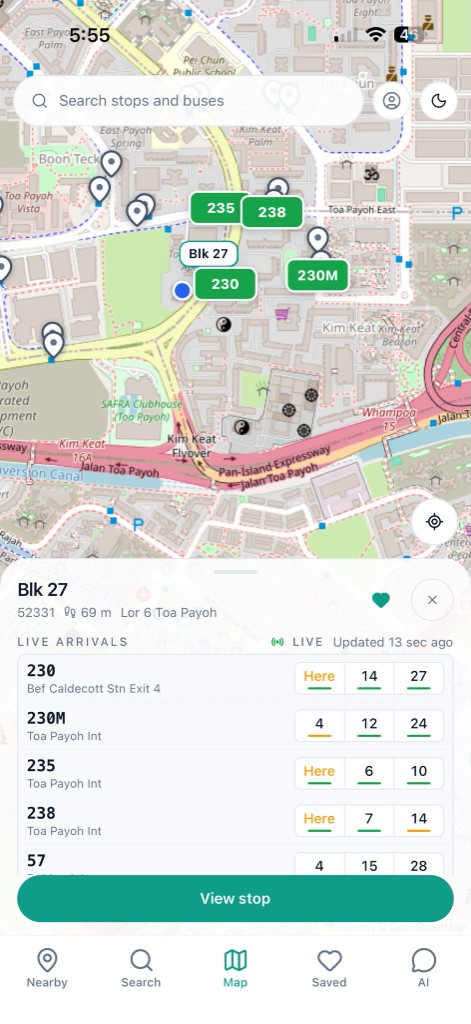
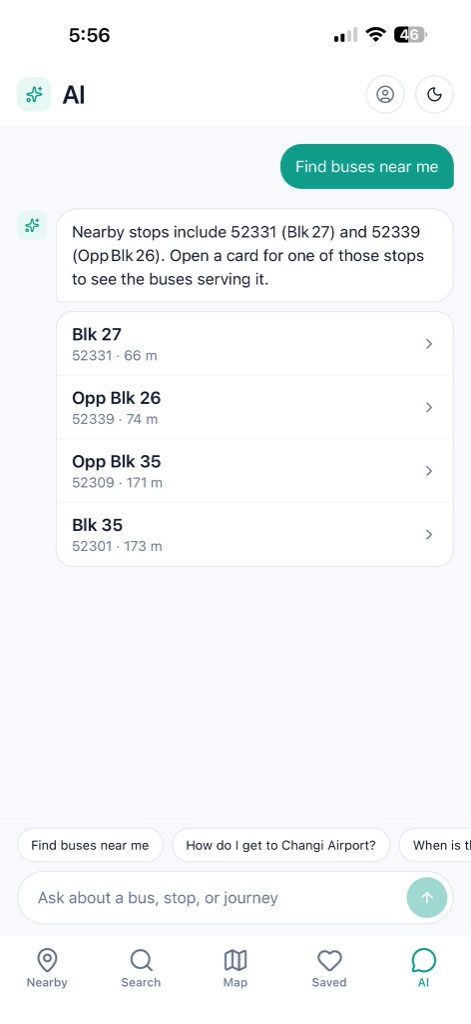
docs: feature Ask BusFlow in the README
The assistant is the part other Singapore bus apps leave out. Lead with it, show the nearby-stops chat, and record that replies come from API tools.

diff --git a/README.md b/README.md
@@ -1,8 +1,8 @@
 # SG BusFlow
 
-**Real-time Singapore bus arrivals, nearby stops, and journeys — on a Next.js site and an Expo app, from one FastAPI service.**
+**Real-time Singapore bus arrivals, nearby stops, journeys, and an in-app assistant — on a Next.js site and an Expo app, from one FastAPI service.**
 
-SG BusFlow shows stops around you, the next buses, and a walk-plus-bus trip. Minutes come from [LTA DataMall](https://datamall.lta.gov.sg/). The website and the phone never call LTA themselves. There is no account: saved stops stay on the device. This repository is the **portfolio / example** source. It runs with Docker on a development machine. It is not deployed.
+SG BusFlow shows stops around you, the next buses, and a walk-plus-bus trip. **Ask BusFlow** is the part other Singapore bus apps leave out: you ask in plain language, and it looks up the same live stops, arrivals, and journeys, then answers with a short reply and tappable cards. Minutes come from [LTA DataMall](https://datamall.lta.gov.sg/). The website, the phone, and the model never invent a time. There is no account: saved stops stay on the device. This repository is the **portfolio / example** source. It runs with Docker on a development machine. It is not deployed.
 
 [![Next.js](https://img.shields.io/badge/Next.js-15-000000?logo=nextdotjs&logoColor=white)](https://nextjs.org/)
 [![TypeScript](https://img.shields.io/badge/TypeScript-5-3178C6?logo=typescript&logoColor=white)](https://www.typescriptlang.org/)
@@ -15,7 +15,7 @@ SG BusFlow shows stops around you, the next buses, and a walk-plus-bus trip. Min
 
 ## Product overview
 
-A bus app that invents an arrival time is worse than one that says the feed is late. SG BusFlow keeps LTA behind one worker, stores the network in PostgreSQL with PostGIS, and keeps the latest minutes in Redis. Web and Expo only read that API.
+A bus app that invents an arrival time is worse than one that says the feed is late. SG BusFlow keeps LTA behind one worker, stores the network in PostgreSQL with PostGIS, and keeps the latest minutes in Redis. Web and Expo only read that API. Ask BusFlow is a tab on both clients. It calls tools on that same API, then explains the result. It does not plan the route itself and it does not offer MRT.
 
 If GPS is denied, the app says location is off and uses a Boon Lay pin so the screens are not blank. Light theme is the default. Dark theme is a switch in the header.
 
@@ -23,6 +23,7 @@ If GPS is denied, the app says location is off and uses a Boon Lay pin so the sc
 
 | Capability | What it provides |
 | --- | --- |
+| **Ask BusFlow** | Chat for "buses near me", "how do I get to Changi Airport?", or "when is the next 230?". Tools search stops, read cached arrivals, and run the journey planner. The reply is one or two sentences. Cards open the stop or the trip. |
 | **Nearby stops** | Stops within walking distance, with the next buses on the first stop. |
 | **Search** | Stop name, road, code, or bus number. |
 | **Live arrivals** | Minutes, load, and a map of buses at the stop. Updates over a WebSocket. |
@@ -30,7 +31,6 @@ If GPS is denied, the app says location is off and uses a Boon Lay pin so the sc
 | **Journey** | Walk, bus, and at most two transfers. Ranked by time or by fewer changes. |
 | **Saved** | Stops and services kept on this phone or browser. No login. |
 | **Arrival alerts** | Optional local notification when a saved stop or the last journey's first bus is inside 3, 5, or 8 minutes. Off by default. |
-| **Assistant** | Answers from nearby stops, journeys, and cached arrivals. It does not calculate the route itself. |
 | **Stale data** | If LTA fails, the last cached minutes stay up and are marked late. |
 
 ## Product walkthrough
@@ -67,11 +67,15 @@ The plan is walk, board, and alight. "Next bus" is a cached minute, not a guesse
 
 ![Map of stops around the current location](docs/screenshots/map-light.jpg)
 
-### Saved and assistant
+### Ask BusFlow
 
-| Saved on this phone | Assistant |
-| --- | --- |
-| ![Saved stops and service 238](docs/screenshots/saved-light.jpg) | ![Assistant listing nearby stops from the API](docs/screenshots/ai-light.jpg) |
+![Ask BusFlow listing nearby stops as cards](docs/screenshots/ai-light.jpg)
+
+"Find buses near me" returns the stops the API already has, with walking distance. Open a card for arrivals. A place question uses the same journey planner as the Journey screen. If the cache has no minute, the reply says live times are not available.
+
+### Saved
+
+![Saved stops and service 238](docs/screenshots/saved-light.jpg)
 
 ### Dark theme
 
@@ -94,9 +98,11 @@ flowchart LR
     API --> Redis
     Web[Next.js] --> API
     Expo[Expo Go] --> API
+    Ask[Ask BusFlow] --> API
+    Ask --> LLM[Groq, then Gemini, then OpenAI]
 ```
 
-The worker is the only process that calls DataMall. It writes stops, routes, and route-stops into Postgres, and arrivals plus the service list into Redis. FastAPI reads those stores. A WebSocket publishes arrival updates from Redis to whoever is watching that stop.
+The worker is the only process that calls DataMall. It writes stops, routes, and route-stops into Postgres, and arrivals plus the service list into Redis. FastAPI reads those stores. A WebSocket publishes arrival updates from Redis to whoever is watching that stop. Ask BusFlow sends the question to the model with tools. Those tools read the same API. The model writes the sentence. The cards are the tool results.
 
 ## Arrival integrity
 
@@ -108,6 +114,7 @@ A minute on screen has to be traceable to LTA.
 | **No invented times** | Journey ranking uses cached minutes. Missing cache means no live wait, not a made-up one. |
 | **Stale cache** | After an LTA error, the previous payload is returned with `stale: true` and `age_seconds`. |
 | **Redis down** | Stop search and journey planning still use Postgres. Live minutes wait until Redis is back. |
+| **Assistant tools** | Stops, services, arrivals, live buses, and journeys in a reply come from tool results. An empty result is "BusFlow does not have that", not a guess. |
 | **One worker** | The arrival loop is its own process. Extra API containers do not each poll LTA. |
 | **Migrations** | `alembic upgrade head` is a separate command. API startup does not change the schema. |
 
@@ -120,7 +127,7 @@ A minute on screen has to be traceable to LTA.
 | **API** | Python 3.12, FastAPI, Pydantic, SQLAlchemy, Alembic, GeoAlchemy2 |
 | **Data** | PostgreSQL 16, PostGIS 3.5, Redis 7 |
 | **Live** | WebSockets, Redis pub/sub |
-| **Assistant** | Groq first, then Gemini, then OpenAI. Tools call the same API data. |
+| **Ask BusFlow** | Groq first (`openai/gpt-oss-120b`), then Gemini, then OpenAI. Tools call the same API data. |
 | **Run and check** | Docker Compose, pytest, GitHub Actions |
 
 ## Project structure
